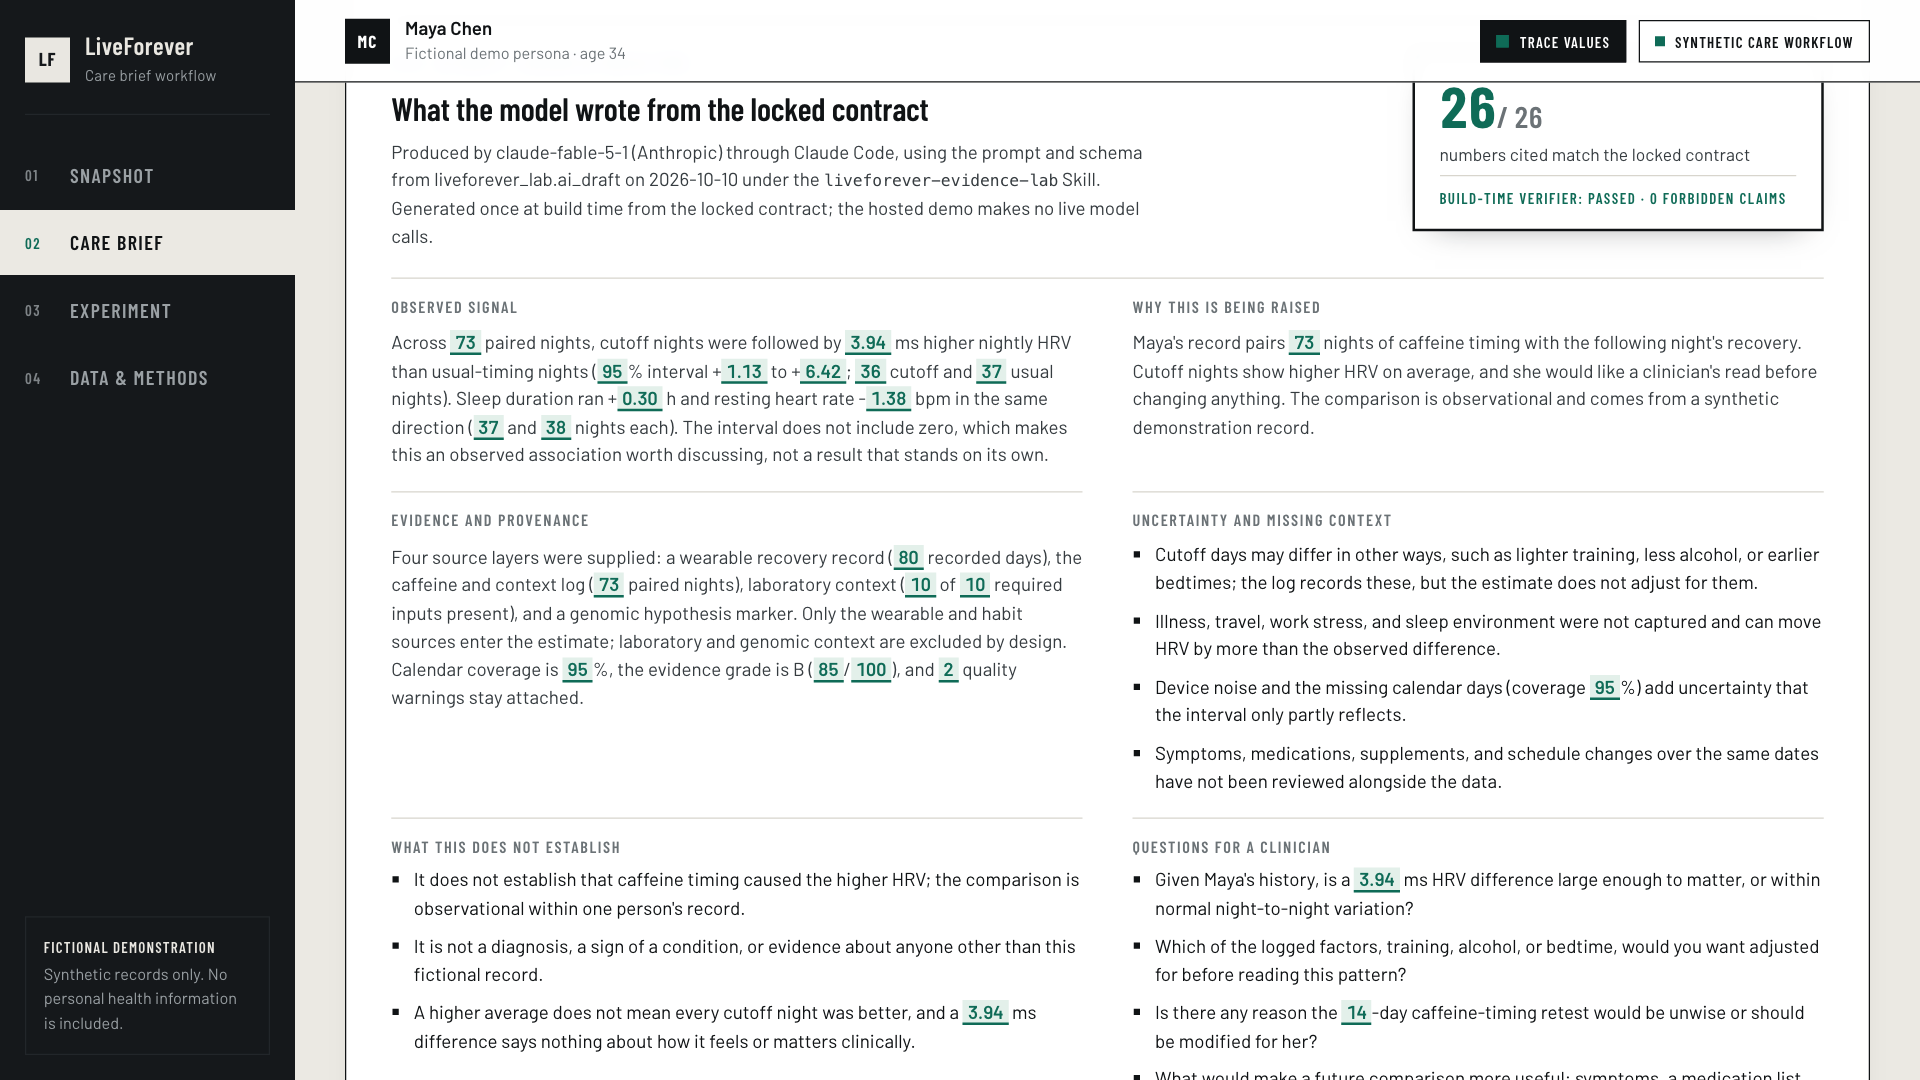
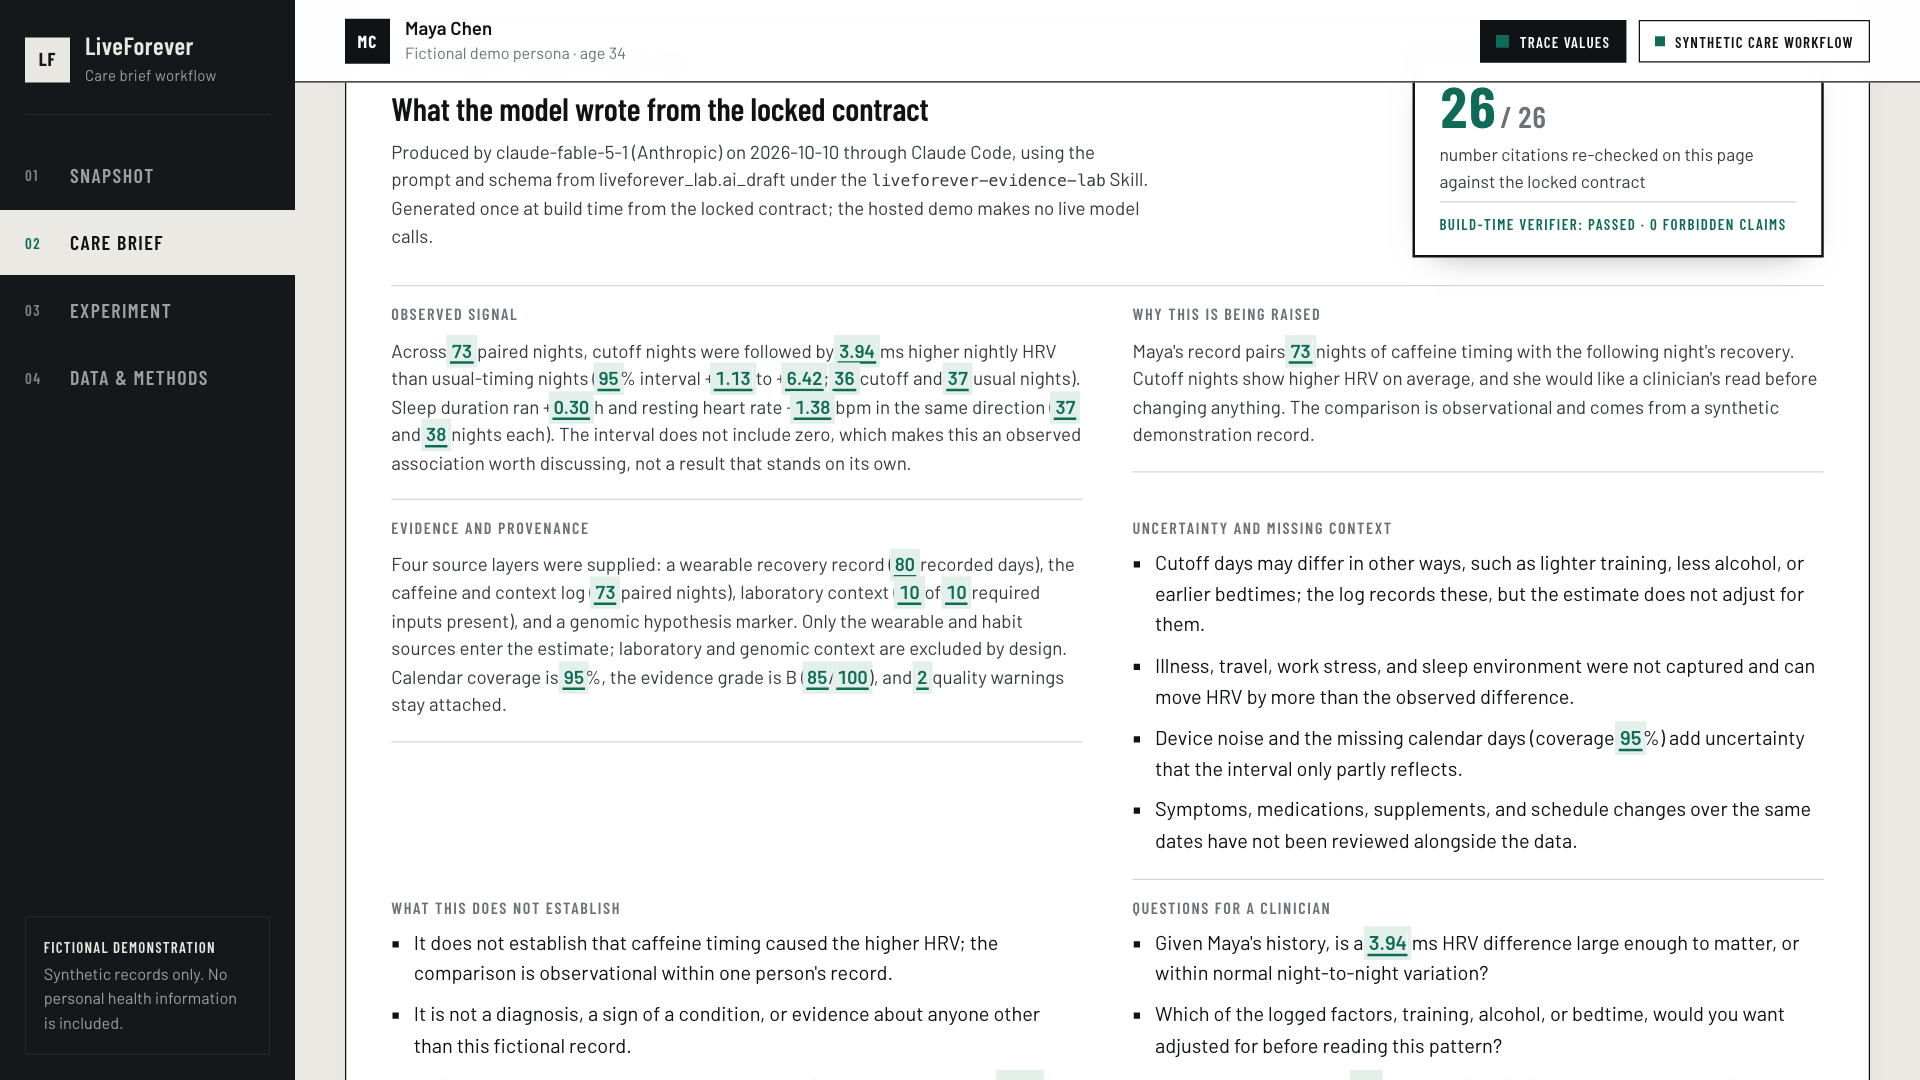
Apply the finish review of the AI-draft block
- Trace-on marks no longer change inline metrics (box-shadow halo instead of
  padding, box-decoration-break clone, a 160ms fade), so paragraphs keep
  their line breaks and units stay attached to their numbers.
- Provenance sentence reads model, date, runner, Skill in that order.
- The check card says what it counts (citations re-checked on this page)
  so it is not confused with the build-time verifier's distinct values.
- Count slash spacing, grid rows aligned to the top, one text size for
  the draft's prose and lists; docs PNG recaptured.

diff --git a/demo/portfolio.js b/demo/portfolio.js
@@ -142,11 +142,11 @@
           '<div>',
             '<p class="kicker">AI draft &middot; cached at build time</p>',
             '<h3 id="ai-draft-heading">What the model wrote from the locked contract</h3>',
-            '<p class="ai-draft-provenance">Produced by ', escapeText(doc.generator.model || 'an unnamed model'), ' through ', escapeText(doc.generator.runner || 'an unnamed runner'), generated ? ' on ' + escapeText(generated) : '', ' under the <code>', escapeText(doc.generator.skill || ''), '</code> Skill. ', escapeText(doc.generator.mode || ''), '</p>',
+            '<p class="ai-draft-provenance">Produced by ', escapeText(doc.generator.model || 'an unnamed model'), generated ? ' on ' + escapeText(generated) : '', ' through ', escapeText(doc.generator.runner || 'an unnamed runner'), ' under the <code>', escapeText(doc.generator.skill || ''), '</code> Skill. ', escapeText(doc.generator.mode || ''), '</p>',
           '</div>',
           '<div class="ai-draft-check" role="status">',
             '<span class="ai-draft-count">', String(tally.ok), '<small>/ ', String(tally.ok + tally.bad), '</small></span>',
-            '<span class="ai-draft-count-label">numbers cited match the locked contract</span>',
+            '<span class="ai-draft-count-label">number citations re-checked on this page against the locked contract</span>',
             '<span class="ai-draft-build ', buildOk ? 'ok' : 'bad', '">Build-time verifier: ', buildOk ? 'passed' : 'failed', ' &middot; ', String((verification.forbidden_claims || []).length), ' forbidden claims</span>',
           '</div>',
         '</div>',

diff --git a/demo/portfolio.css b/demo/portfolio.css
@@ -1776,6 +1776,7 @@ h1 {
 }
 
 .ai-draft-count small {
+  margin-left: 0.12em;
   color: var(--muted);
   font-size: 24px;
   font-weight: 600;
@@ -1809,6 +1810,7 @@ h1 {
   display: grid;
   grid-template-columns: repeat(2, minmax(0, 1fr));
   gap: 0 40px;
+  align-items: start;
   border-top: 1px solid var(--hair);
 }
 
@@ -1836,8 +1838,8 @@ h1 {
 .ai-draft-item ul {
   margin: 0;
   padding-left: 18px;
-  font-size: 15px;
-  line-height: 1.5;
+  font-size: 16px;
+  line-height: 1.55;
   list-style: square;
 }
 
@@ -1864,6 +1866,9 @@ mark.cite {
   border-bottom: 2px dotted var(--signal);
   font-weight: 600;
   font-variant-numeric: tabular-nums;
+  -webkit-box-decoration-break: clone;
+  box-decoration-break: clone;
+  transition: background-color 160ms var(--ease-out), box-shadow 160ms var(--ease-out);
 }
 
 mark.cite.bad {
@@ -1872,8 +1877,8 @@ mark.cite.bad {
 }
 
 .trace-on mark.cite.ok {
-  padding: 0 4px;
   background: var(--signal-soft);
+  box-shadow: 0 0 0 3px var(--signal-soft);
   border-bottom-style: solid;
 }
 
